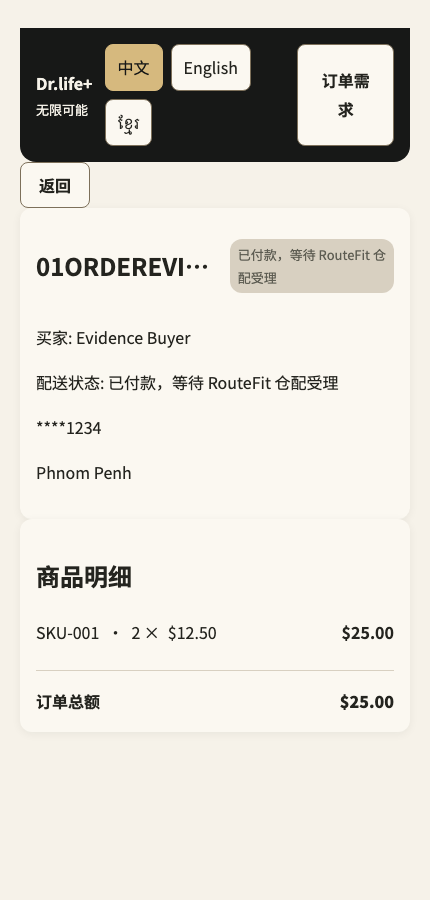
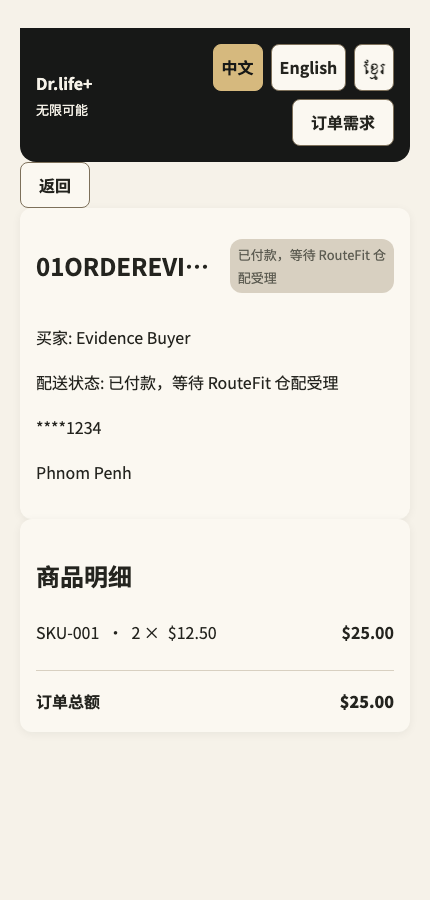
docs: refresh PR 235 evidence for f9fd8d7

Changed region(s): [[0.2419, 0.0311, 0.9372, 0.1867]]

diff --git a/index.md b/index.md
@@ -1,6 +1,6 @@
 # PR #235 evidence
 
-Evidence was captured from PR #235 head `532a83d4960a49e2629064356fc093dcaebb3080` without changing that branch.
+Evidence was captured from PR #235 head `f9fd8d7` after the B6 rework.
 
 ## Matrix
 
@@ -10,12 +10,14 @@ The 12 screenshots cover 430px buyer home, merchant order list, and merchant ord
 - `screenshots/merchant-orders-430-{light,dark}-{zh,km}.png`
 - `screenshots/merchant-order-detail-430-{light,dark}-{zh,km}.png`
 
-The merchant detail fixture includes a money amount rendered through the shared e4 formatter and the masked phone `****1234`. The capture waits through the startup gate, asserts the light/dark root background, and verifies the business-page controls before saving each screenshot. Dark/light pairs have distinct SHA-256 hashes.
+The merchant detail fixture includes a money amount rendered through the shared e4 formatter and the masked phone `****1234`. The capture waits through the startup gate, asserts the light/dark root background, verifies dark language/status target contrast at least 4.5:1, and verifies the business-page controls before saving each screenshot. Dark/light pairs have distinct SHA-256 hashes.
 
 ## Verification
 
 - PASS: all 12 captures completed from the PR #235 head.
 - PASS: buyer home is captured in Chinese and Khmer for both themes.
 - PASS: merchant order list and order detail are captured in Chinese and Khmer for both themes.
-- PASS: PR #235 implementation commit `532a83d` was pushed once; this evidence is isolated on `evidence/pr-235`.
+- PASS: PR #235 implementation commit `f9fd8d7` was pushed once; this evidence is isolated on `evidence/pr-235`.
+- PASS: language and refresh controls use the shared `Button`; dark neutral status and unselected language controls pass the scripted 4.5:1 contrast check.
+- PASS: header action labels stay unbroken at 430px while the action row wraps as needed.
 - PASS: order detail line items use separated description/amount columns; order lists have no default bullets and ellipsize long IDs; 16 status filters stay in one horizontal scrolling row.
